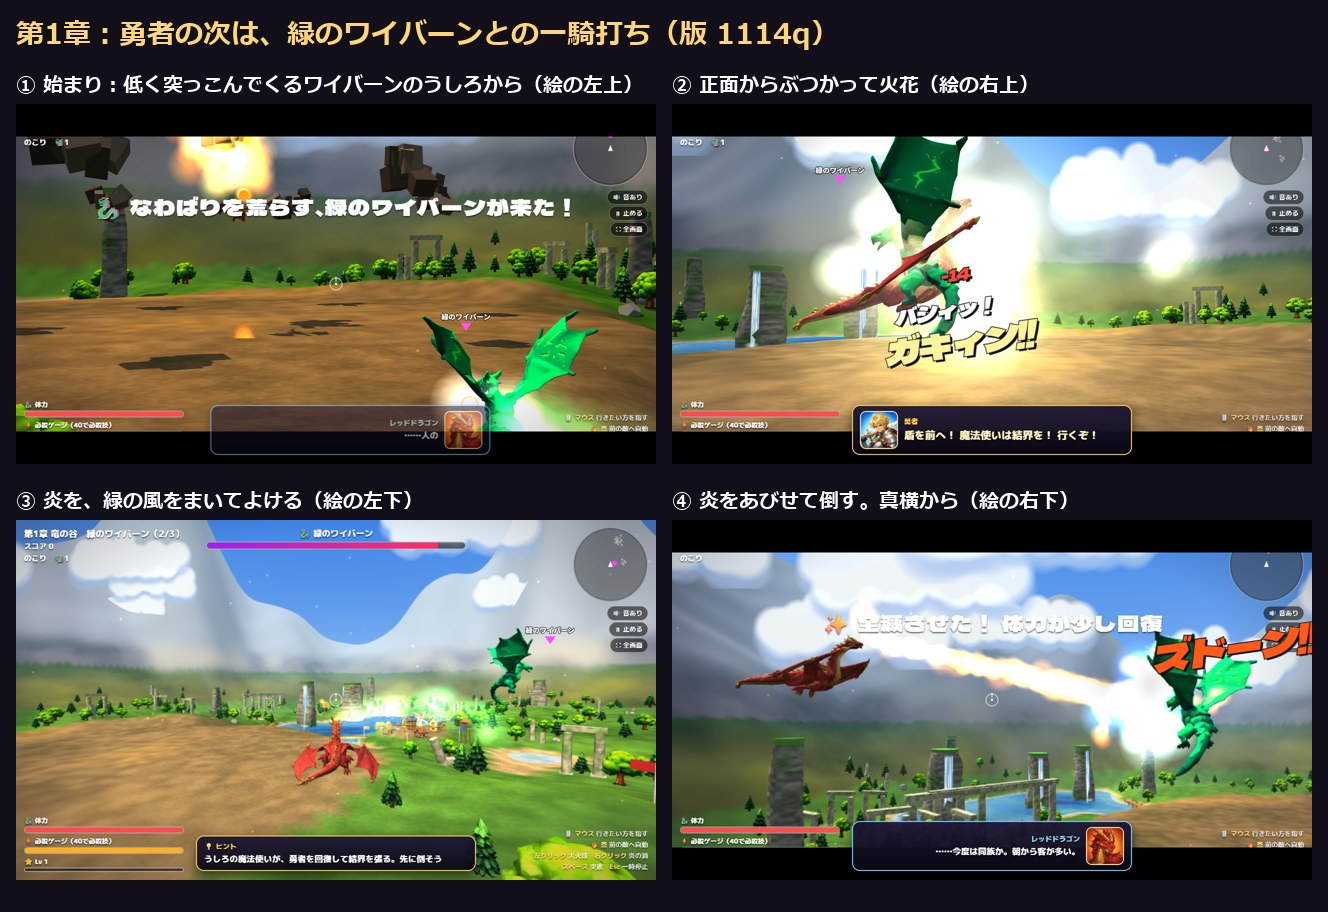
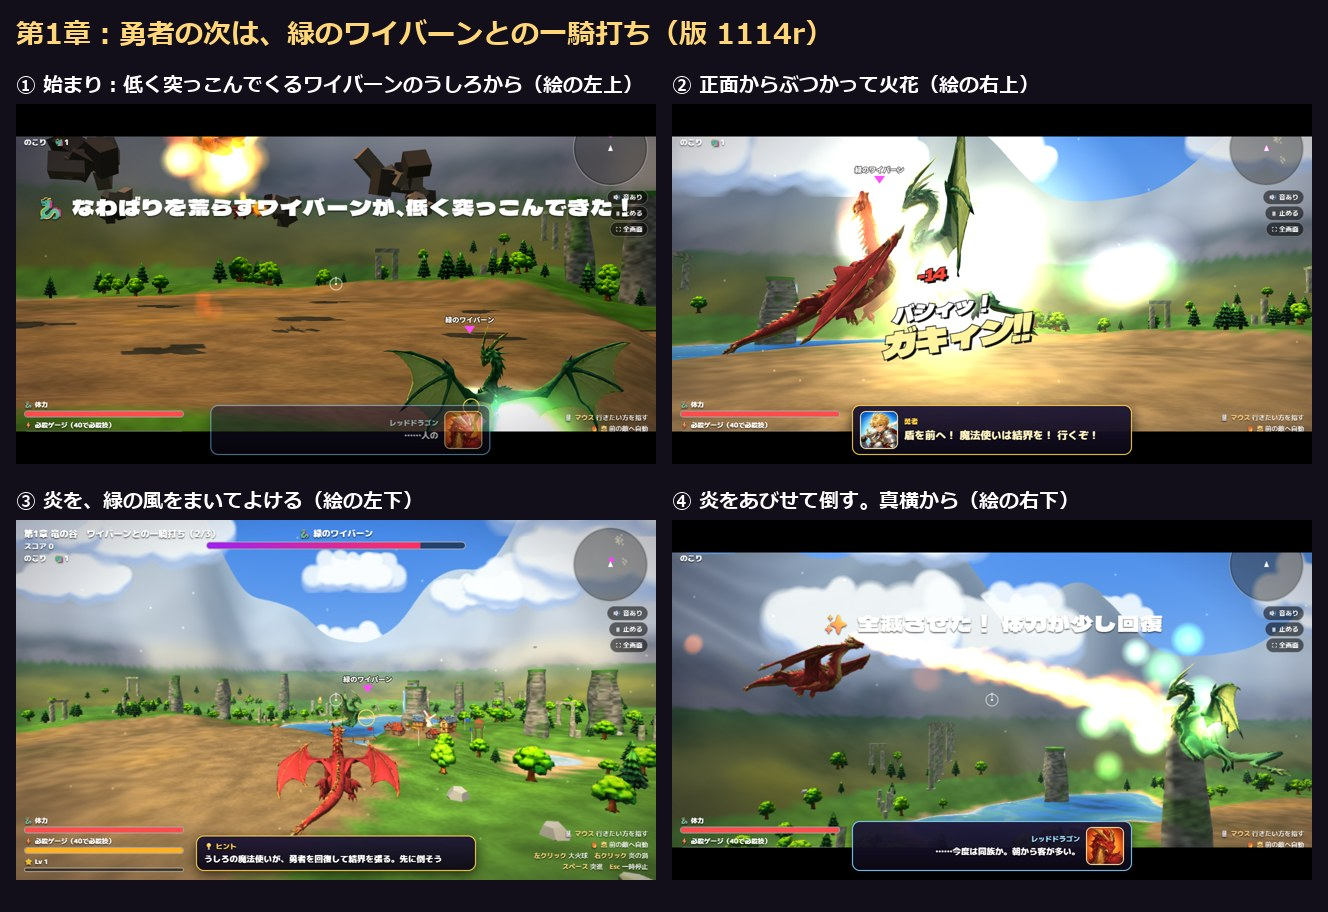
ゲームを更新

diff --git a/index.html b/index.html
@@ -643,7 +643,7 @@ const MODEL={},MIX=[];
 // 自分のキャラだけ別のモデルを使う時の対応（ワイバーン＝緑の方）。読めなかった時は元のモデルにもどる
 const PMODEL={wyvern:'wyvern2'};
 // 3Dモデルの版。モデルを作り直したら数字を変える（古い版がブラウザに残らないように）
-const ASSET_V='1114q';let LOADED=0,LOADN=0,READY=false;
+const ASSET_V='1114r';let LOADED=0,LOADN=0,READY=false;
 function loadStep(){LOADED++;const k=Math.round(LOADED/Math.max(1,LOADN)*100)+'%';const b=$('ldp');if(b)b.style.width=k;const n=$('ldn');if(n)n.textContent=k;}
 function loadDone(){if(READY)return;READY=true;$('title').classList.add('ready');$('press').textContent='クリック／タップではじめる';}
 async function loadModels(){try{await loadModels0();}finally{loadDone();}}
@@ -804,7 +804,7 @@ function updRig(o,dt){const f=o.rig,me=(typeof D!=='undefined'&&D&&f.g===D.g),pl
 // 竜の体の動き（骨の無い模型でも、形の場所ごとに回して動かす）
 //  ・翼：体の中心から横に離れた所を、肩を軸に上下に回す（羽ばたき）
 //  ・尾：うしろの方を左右にふる　・足（アースドラゴン）：腰より下を、対角の2本ずつ前後にふる
-const FLAP=[],FLAP_ID={dragon:{fl:1,amp:0.55,tz:0.42,tw:0.16,lean:0.3,tx:0.2,tk:6,ta:0.9,nw:1,lg:[0.233,0.224,0.43,1.02,0.91,0.55],gy:-1.0},wyvern2:{fl:1,amp:0.62,sh:0.14,wy:0.5,tw:0.16,ta:0.95,tx:0.3,tk:6.5,tz:0.4},wyvern:{fl:1,amp:0.62,sh:0.14,wy:0.5,tw:3,ta:0.95,lean:0.95,tx:0.5,tk:6.5,tr:[0.5,0.42,0.47],tt:[0.8,0.02,0.35],tb:1},elder:{fl:1,amp:0.45},rival:{fl:1,amp:0.55},griffin:{fl:1,amp:0.5},dknight:{fl:1,amp:0.42},ground:{fl:0,legs:1,tz:0.36,tw:0.24,ta:1.5,tx:0.55,tk:6}};
+const FLAP=[],FLAP_ID={dragon:{fl:1,amp:0.55,tz:0.42,tw:0.16,lean:0.3,tx:0.2,tk:6,ta:0.9,nw:1,lg:[0.233,0.224,0.43,1.02,0.91,0.55],gy:-1.0},wyvern2:{fl:1,amp:0.45,wo:-0.6,sh:0.14,wy:0.5,tw:0.16,ta:0.95,tx:0.3,tk:6.5,tz:0.62,lg:[0.33,0.06,0.62,0.95,0.74,0.74],lf:1.0},wyvern:{fl:1,amp:0.62,sh:0.14,wy:0.5,tw:3,ta:0.95,lean:0.95,tx:0.5,tk:6.5,tr:[0.5,0.42,0.47],tt:[0.8,0.02,0.35],tb:1},elder:{fl:1,amp:0.45},rival:{fl:1,amp:0.55},griffin:{fl:1,amp:0.5},dknight:{fl:1,amp:0.42},ground:{fl:0,legs:1,tz:0.36,tw:0.24,ta:1.5,tx:0.55,tk:6}};
 // 尻尾の根もと(R)・先へ向かう向き(D)・長さ(L)・左右にふる軸(N)・上下にふる軸(S)
 function tailU(cf,b,sz){const fr=a=>new V3(b.min.x+sz.x*a[0],b.min.y+sz.y*a[1],b.min.z+sz.z*a[2]);let R,D,L;
   if(cf.tr){R=fr(cf.tr);const T=fr(cf.tt);D=T.clone().sub(R);L=D.length();D.normalize();}
@@ -852,12 +852,13 @@ function updFlap(dt){for(let i=FLAP.length-1;i>=0;i--){const f=FLAP[i];if(!f.g.p
   if(f.fl){f.ph+=dt*spd;const w=Math.sin(f.ph);f.gl=(f.gl||0)+(glide-(f.gl||0))*Math.min(1,dt*4);
     if(f.nw){const hf=amp*1.2,md=-0.25*(1-f.gl)+0.02*f.gl,w1=wvDn(f.ph,0.4),w2=wvDn(f.ph-0.8,0.4),k=f.wk,aw=-0.8+0.05*Math.sin(f.lp*2);
       f.U.uAng.value=(md+hf*w1)*(1-k)+aw*k;f.U.uAg2.value=(md+hf*0.85*w2-0.05)*(1-k)+(aw-0.12)*k;} // つけ根が先に動き、先は少し遅れてしなる。地上では翼を半分たたむ
-    else{f.U.uAng.value=amp*(w>0?w:w*1.15)+0.08+f.gl*0.12;f.U.uAg2.value=f.U.uAng.value;}} // 打ち下ろしを強く・振り上げをゆっくり
+    else{f.U.uAng.value=amp*(w>0?w:w*1.15)+0.08+f.gl*0.12+(f.cf.wo||0);f.U.uAg2.value=f.U.uAng.value;}} // 打ち下ろしを強く・振り上げをゆっくり
   // 尾：ふだんはゆっくり、速く動く時は大きく
   f.tp+=dt*(2.2+Math.min(4,f.v/Math.max(f.L,1)*1.6));f.U.uTp.value=f.tp;f.U.uTa.value=(0.5+Math.min(0.35,f.v*0.012))*f.ta;
   if(f.legs){const v=(me&&typeof state!=='undefined'&&state==='select')?f.L*0.5:me?Math.hypot(P.vel.x,P.vel.z):f.v;const go=Math.min(1,v/Math.max(f.L*0.6,1));f.lp+=dt*(2+v/Math.max(f.L*0.18,0.5));
     const a=Math.sin(f.lp)*0.55*go;f.U.uLa.value=a;f.U.uLb.value=-a;if(f.holder)f.holder.position.y=Math.abs(Math.cos(f.lp))*f.h*0.03*go;}
   else if(f.fl&&f.holder){f.holder.position.y=-Math.cos(f.ph)*f.h*0.025;}
+  if(f.cf.lf){const tg=(me&&typeof state!=='undefined'&&state==='play'&&P.onGround)?0:f.cf.lf;f.lfv=(f.lfv||0)+(tg-(f.lfv||0))*Math.min(1,dt*5);f.U.uLa.value=f.U.uLb.value=f.lfv;}
   if(f.nw){const v=(typeof state!=='undefined'&&state==='play'&&P.onGround)?Math.hypot(P.vel.x,P.vel.z):0,go=Math.min(1,v/6)*f.wk;f.lp+=dt*(1.5+Math.min(9,v*0.22)); // 地上：進む速さに足の速さを合わせ、止まれば足も止まる
     const a=Math.sin(f.lp)*0.75*go;f.U.uLa.value=a;f.U.uLb.value=-a;
     f.holder.position.y=-wvDn(f.ph,0.4)*f.h*0.02*(1-f.wk)+Math.abs(Math.cos(f.lp))*f.h*0.025*go+(f.cf.gy||0)*f.wk;}}}
@@ -1953,7 +1954,7 @@ function hitEnemy(e,n){if(e.dead)return;
 const DIE={wizard:'そんな…わしの魔力が…',hero:'すまない…みんな…',demon:'この私が…トカゲごときに…',rival:'…強くなったな。',wooddragon:'……ギギ……ギ……',walker:'城が……ローンが、まだ……',elder:'見事だ、若き竜よ。空はお前のものだ。',battleship:'総員、退艦…！ 泳げる者から…！',bigairship:'空の…王の船が…！',kraken:'ゴボ…ゴボボ……'};
 function killEnemy(e,quiet){if(e.dead)return;e.dead=true;if((e.boss||e.type==='biggolem')&&state==='play'&&!quiet)bossFall(e);else scene.remove(e.mesh);if(e.type==='bigslime'&&state==='play'&&!quiet)slimeSplit(e);score+=e.val;kills++;addXp(e.val);
   if(state==='play'){combo++;comboT=3.5;if(combo>maxCombo)maxCombo=combo;score+=Math.round(e.val*Math.min(combo,40)*0.05);showCombo();}
-  const c=cpos(e);burst(c,e.fall?16:e.boss?70:14,e.type==='rival'?BLUE:e.type==='demon'||e.type==='imp'?PURP:e.type==='slime'?GOO:FIRE,e.fall?4:e.boss?9:3,e.boss?50:16,e.boss?1.4:0.7);
+  const c=cpos(e);burst(c,e.fall?16:e.boss?70:14,e.type==='rival'?(e.wyv?WGRN:BLUE):e.type==='demon'||e.type==='imp'?PURP:e.type==='slime'?GOO:FIRE,e.fall?4:e.boss?9:3,e.boss?50:16,e.boss?1.4:0.7);
   if(!quiet)sfx(e.boss?'boom':'small',c,e.boss?1:0.5);if(e.boss)ono(c,'ズドーン!!','#ff5a1a',72);else if(e.r>=4)ono(c,'ドカッ！','#ffd23a',40);
   if(e.type==='cannon'){debris(c,6,[0x2a2a2e,0x6a4a2a],0.8);smoke(c,4,4,2);}
   if(['golem','bigcannon','wooddragon','walker','airship','ship','battleship','bigairship'].includes(e.type)){debris(c,e.boss?24:10,[0x7a7468,0x6a4a2a,0x9a8a72],e.boss?3:1.5);smoke(c,8,e.boss?10:5,3,0x5a5248,e.boss?8:3);burst(c,e.fall?10:30,FIRE,e.fall?3:e.boss?8:5,30,1);}
@@ -2281,7 +2282,7 @@ const STAGES=[
    story:['千年の眠りから、竜は目を覚ました。寝起きは、きわめて悪い。','谷には魔物があふれ、森の奥では岩の巨人ゴーレムまで動き出した。','まずは、この谷を取りもどせ。朝めし前の、軽い火あそびだ。'],
    waves:[
     {name:'ねぐらの勇者一行',msg:'⚔ 勇者の一行が、ねぐらに乗りこんできた！',mood:6,cave:1,clr:'🏃 勇者の一行は逃げ出した！ 体力が少し回復',go(){caveParty();}},
-    {name:'緑のワイバーン',msg:'🐉 なわばりを荒らす、緑のワイバーンが来た！',mood:0,drg:1,go(){wyvDuel();}},
+    {name:'ワイバーンとの一騎打ち',msg:'🐉 なわばりを荒らすワイバーンが、低く突っこんできた！',mood:0,drg:1,go(){wyvDuel();}},
     {name:'魔物の群れ',msg:'👾 魔物の群れが来た！',mood:0,nodrg:1,go(){for(let i=0;i<12;i++)addEnemy('slime',...ringPos(60,150));for(let i=0;i<8;i++){const [x,z]=ringPos(80,150);addEnemy('bat',x,z,P.pos.y+rnd(0,30));}}},
     {name:'オーガの親分',msg:'👹 オーガが村をおそっている！',mood:0,go(){addEnemy('bigslime',-72+rnd(-30,30),-42+rnd(-30,30));addEnemy('biggolem',90+rnd(-15,15),-85+rnd(-15,15));for(let i=0;i<3;i++)addEnemy('ogre',-72+rnd(-25,25),-42+rnd(-25,25));for(let i=0;i<8;i++)addEnemy('slime',-72+rnd(-30,30),-42+rnd(-30,30));for(let i=0;i<6;i++){const [x,z]=ringPos(60,120);addEnemy('bat',x,z,P.pos.y+rnd(0,25));}for(let i=0;i<2;i++)addEnemy('golem',90+rnd(-20,20),-85+rnd(-20,20));}}]},
   {key:'town',ch:'第2章',title:'炎の夜明け',place:'国境の町',
@@ -2397,8 +2398,8 @@ function updCave(dt,rdt){if(!CAVE.on||state!=='play')return;const L=EN.filter(e=
 const WGRN=[0x7dff6a,0xc8ffb0,0x2fd060,0xffffff];
 function wyvTint(g){g.traverse(o=>{if(!o.isMesh||!o.visible||!o.material||o.material.isMeshBasicMaterial)return;o.material=o.material.clone();o.material.color.setRGB(0.8,1.5,0.42);});}
 function wyvDuel(){const a=P.yaw,fx=Math.sin(a),fz=Math.cos(a);let x=P.pos.x+fx*125,z=P.pos.z+fz*125;{const d=Math.hypot(x,z);if(d>300){x*=300/d;z*=300/d;}}
-  const e=addEnemy('rival',x,z,floorAt(x,z)+9,{model:'wyvern'});e.wyv=1;e.boss='🐉 緑のワイバーン';e.hp=e.maxHp=EASY?260:380;e.dmg=14;e.val=900;e.p2=1;e.r=7;
-  if(!MAT.wind)MAT.wind=new THREE.MeshBasicMaterial({color:0x8dff7a});wyvTint(e.mesh);
+  const blue=charKey==='wyvern',gm=!blue&&!!MODEL.wyvern2,e=addEnemy('rival',x,z,floorAt(x,z)+9,{model:gm?'wyvern2':'wyvern'});e.wyv=1;e.boss=blue?'🐉 青のワイバーン':'🐉 緑のワイバーン';e.hp=e.maxHp=EASY?260:380;e.dmg=14;e.val=900;e.p2=1;e.r=7;
+  if(!MAT.wind)MAT.wind=new THREE.MeshBasicMaterial({color:0x8dff7a});if(!blue&&!gm)wyvTint(e.mesh);
   const dx=P.pos.x-x,dz=P.pos.z-z,dd=Math.hypot(dx,dz)||1;e.state='charge';e.st=1.7;e.done=false;e.vel.set(dx/dd*60,0,dz/dd*60);e.cd=2.5;e.mesh.rotation.y=Math.atan2(dx,dz);
   $('cutin').style.display='none';cutT=0;
   talk([['ME','……今度は同族か。朝から客が多い。'],['💡 ヒント','ワイバーンは突進と風の弾で来る。横によけて、炎を当てよう']]);}

diff --git a/hikaku.html b/hikaku.html
@@ -17,7 +17,7 @@ small{color:#b9afcf}
 </style></head><body><main>
 <a class="back" href="./">▶ ゲームを遊ぶ</a>
 <h1>表紙の4コマ と ゲーム画面の見比べ</h1>
-<p><small>2026年11月14日　版 1114q</small></p>
+<p><small>2026年11月14日　版 1114r</small></p>
 <p class="lead">結論：カメラの向きに加えて、炎の色・兵の隊列・投石機・燃える城・四角い岩のゴーレムを入れ、表紙の絵にさらに近づけました。投石機とゴーレムは Tripo で新しく作りました。</p>
 <img src="hikaku.jpg" alt="左から、表紙のコマ・直す前のゲーム画面・直した後のゲーム画面">
 
